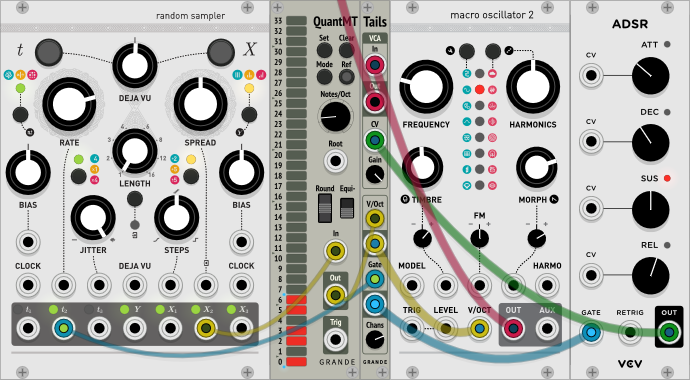
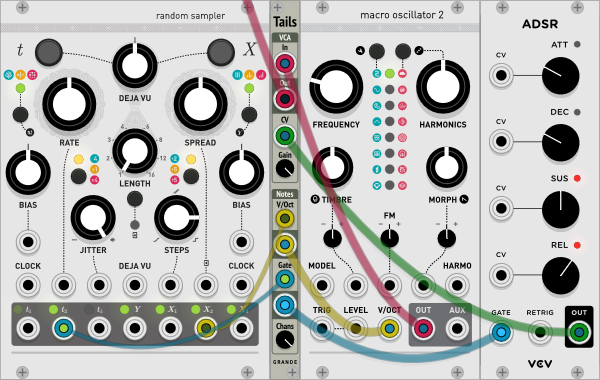
Update README.

diff --git a/README.md b/README.md
@@ -8,13 +8,19 @@ By David Grande
 
 Tails
 -------------------
-***New for v1.7.0***
+***Updated for v1.7.1***
 
 ![Tails](images/Tails.png "Tails")
 
 **Mono to poly sequential note splitter—helps preserve envelope tails.**
 
-**Tails** takes a monophonic sequence of notes, as defined by a gate/trigger and a V/Oct voltage, and moves each note to the next available polyphonic output channels. Then using a polyphonic oscillator and a polyphonic envelope generator, these notes can be played simultaneously, giving a much fuller sound. The envelope tails don't have to be cut short at the next note, and can play through most (or all) of their length.
+***For v1.7.1, panel design updated, VCA CV input now clamped, and minor code issues were fixed.***
+
+**Tails** takes a monophonic sequence of notes, as defined by a gate pulse and a V/Oct pitch value, and splits them into multiple polyphonic channels.
+
+Gate pulse lengths are not changed, so there can still only be one active note playing at a time. However, by giving each note a separate channel, this allows for each note's release envelope to continue playing in parallel, giving a much fuller sound.
+
+This is particularly useful for irregular tempos, where widely spaced notes have time to play their tails, but closely spaced notes get cut off abruptly. Note however, that since there's only one pitch value per note, chords are not directly supported.
 
 **Without Tails:** Notes and their envelopes get cut off abruptly when a new note appears.
 
@@ -24,30 +30,43 @@ Tails
 
 ![with](images/with_tails.png "With Tails")
 
-**Warning:** Requires use of a polyphonic oscillator (common), and a polyphonic envelope generator (not so common).
+**Warning:** Requires use of a polyphonic oscillator (fairly common), and a polyphonic envelope generator (not so common).
 
-- **Gate In (mono) and Out (poly):** On rising edge of Gate input, V/Oct input is sampled, and both Gate and sampled V/Oct are output on the next poly channel (up to five channels available). Output should be connected to Gate input of a polyphonic envelope generator.
 
-- **V/Oct In (mono) and Out (poly):**  Note values are sampled on the rising edge of the Gate input, and output to the corresponding poly output channel. Output should be connected to V/Oct input of a polyphonic oscillator.
+**Notes Section:**
 
-- **Channels knob:** Defines how many polyphonic channels to cycle through, from 1 (off) to 5.
+- **V/Oct input:** Feed in a monophonic sequence of V/Oct note pitches. Each value is latched on the rising edge of its corresponding gate pulse.
+
+- **V/Oct output (poly):** Connect to the V/Oct input of a polyphonic oscillator.
+
+- **Gate input:** Feed in a monophonic sequence of gate pulses, the more irregular the better.
+
+- **Gate output (poly):** Connect to the Gate or Trigger input of a polyphonic envelope generator.
+
+- **Chans knob:** Defines how many polyphonic channels to output, from 1 to 5.
+
+**VCA Section:**
 
 Also provides a polyphonic VCA, since some mixers don't support true polyphonic Volume inputs.
 
 - **VCA In and Out:** Polyphonic voltage-controlled attenuator (up to 16 channels).
 
-- **VCA CV:** Control voltage for VCA attenuation (up to 16 channels).
+- **VCA CV:** Control voltage for VCA attenuation (up to 16 channels). ***For v1.7.1, CV input voltage now clamped 0-10V, to match VCV VCA.***
 
 - **VCA Gain knob:** Sets overall gain for VCA (0-1×).
+
 
 **Example patch:**
 
 ![example_patch](images/example_patch.png "Example Patch")
 
-- Set **Marble's** Jitter knob all the way to 1 to best demonstrate the effects of using **Tails.**
+- **Marbles (random sampler):** To best demonstrate the effects of using **Tails,** set the **JITTER** knob all the way to the right (value = 1). Also, turning the **STEPS** knob clockwise gives more musical sequences.
 
-- You can also use the Trigger input of **Plaits** instead of the Gate input of **ADSR.** In that case you don't have to use the VCA section of **Tails.**
+- **Plaits (macro oscillator 2):** Lowering the **FREQUENCY** knob by two octaves gives more pleasant notes.
 
+- **ADSR:** Set fairly short attack and decay times,such as 15ms, while making the release time fairly long, such as 300ms or more.
+
+- **Tails:** While this patch is playing, alternate the number of channels between 1 and 5, and listen to the difference.
 
 ***
 
@@ -242,11 +261,15 @@ NoteMT
 
 SampleDelays (SD)
 -----------------
+***Updated for v1.7.1***
+
 ![SampleDelays](images/SampleDelays.png "SampleDelays")
 
 **3 sample delay buffer chains.**
 
-Provides three sample-delay buffer chains giving one or two sample delays each.
+***For v1.7.1, panel design made consistent with other modules.***
+
+Provides three independent sample-delay buffer chains giving one or two sample delays each.
 
 - Internally chained together to give up to six sample delays.
 
